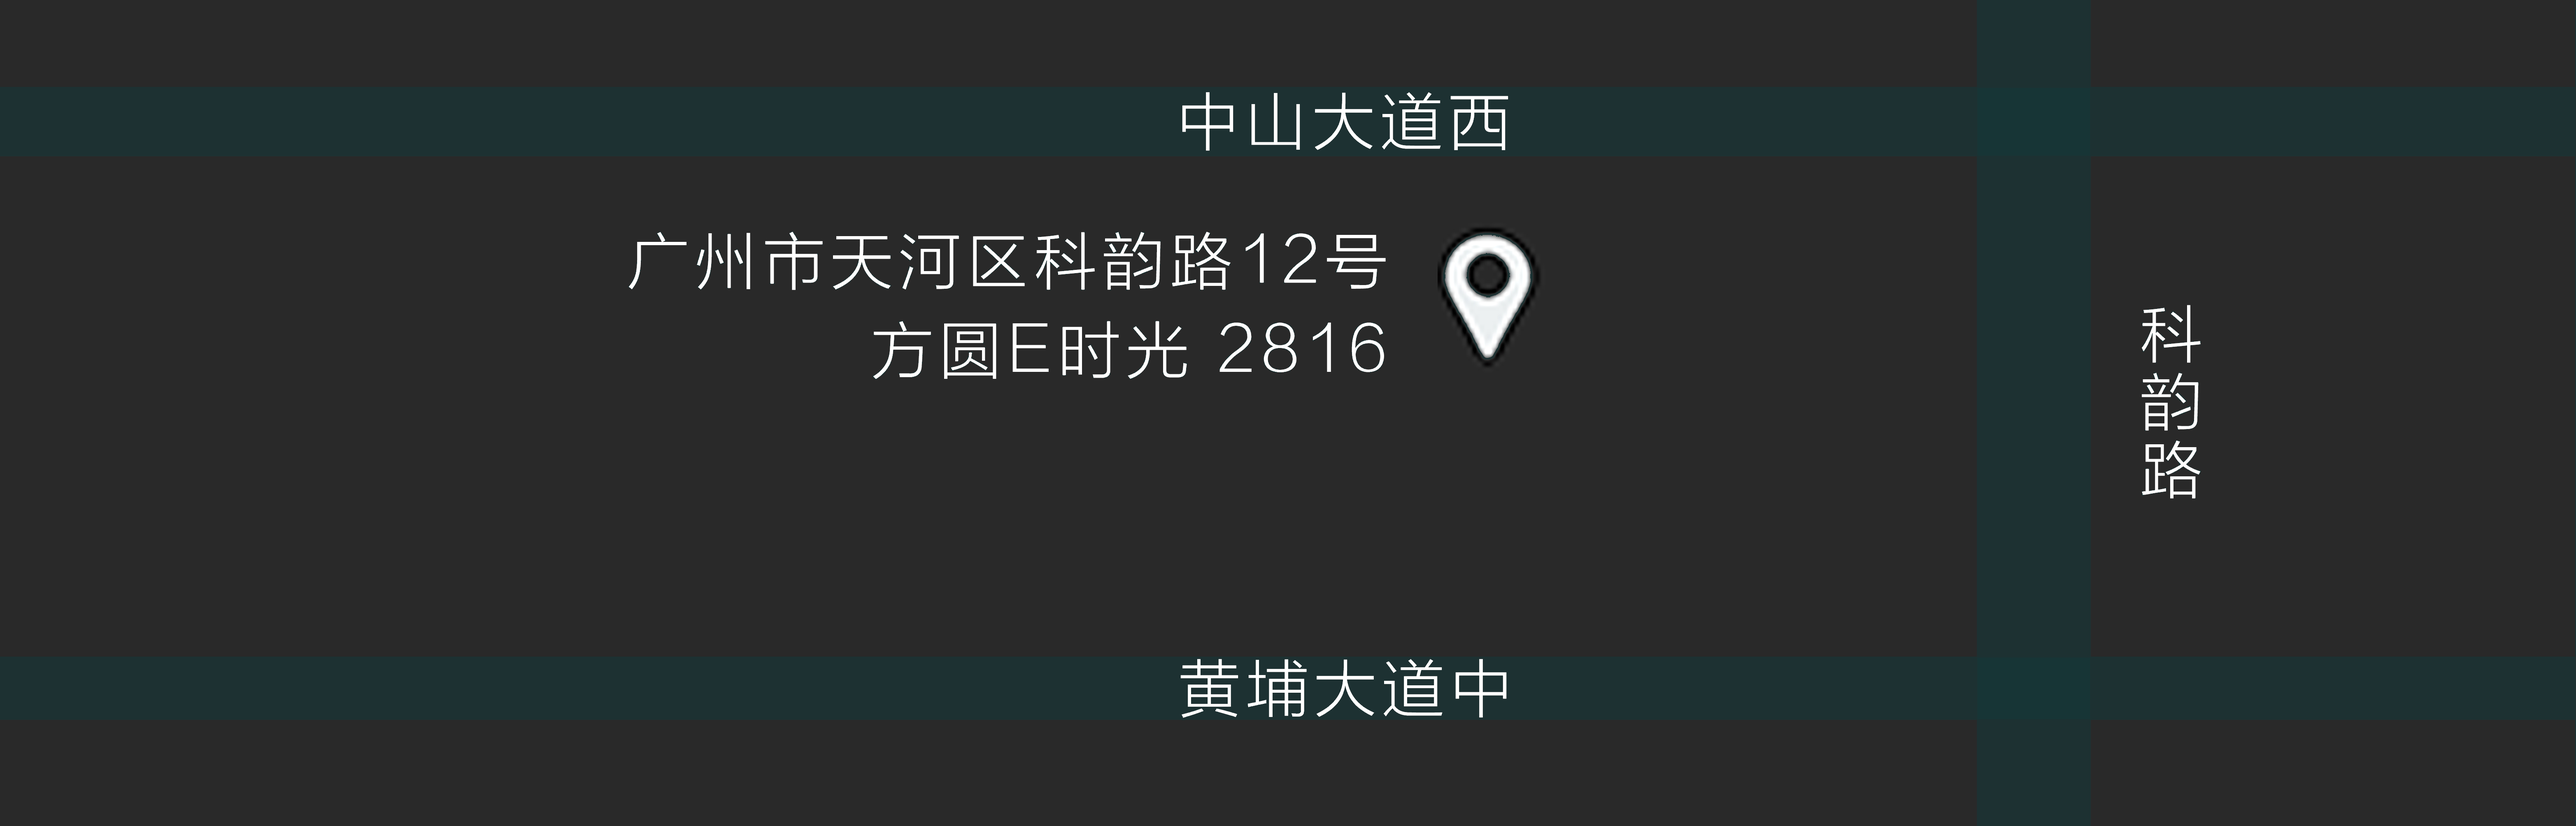
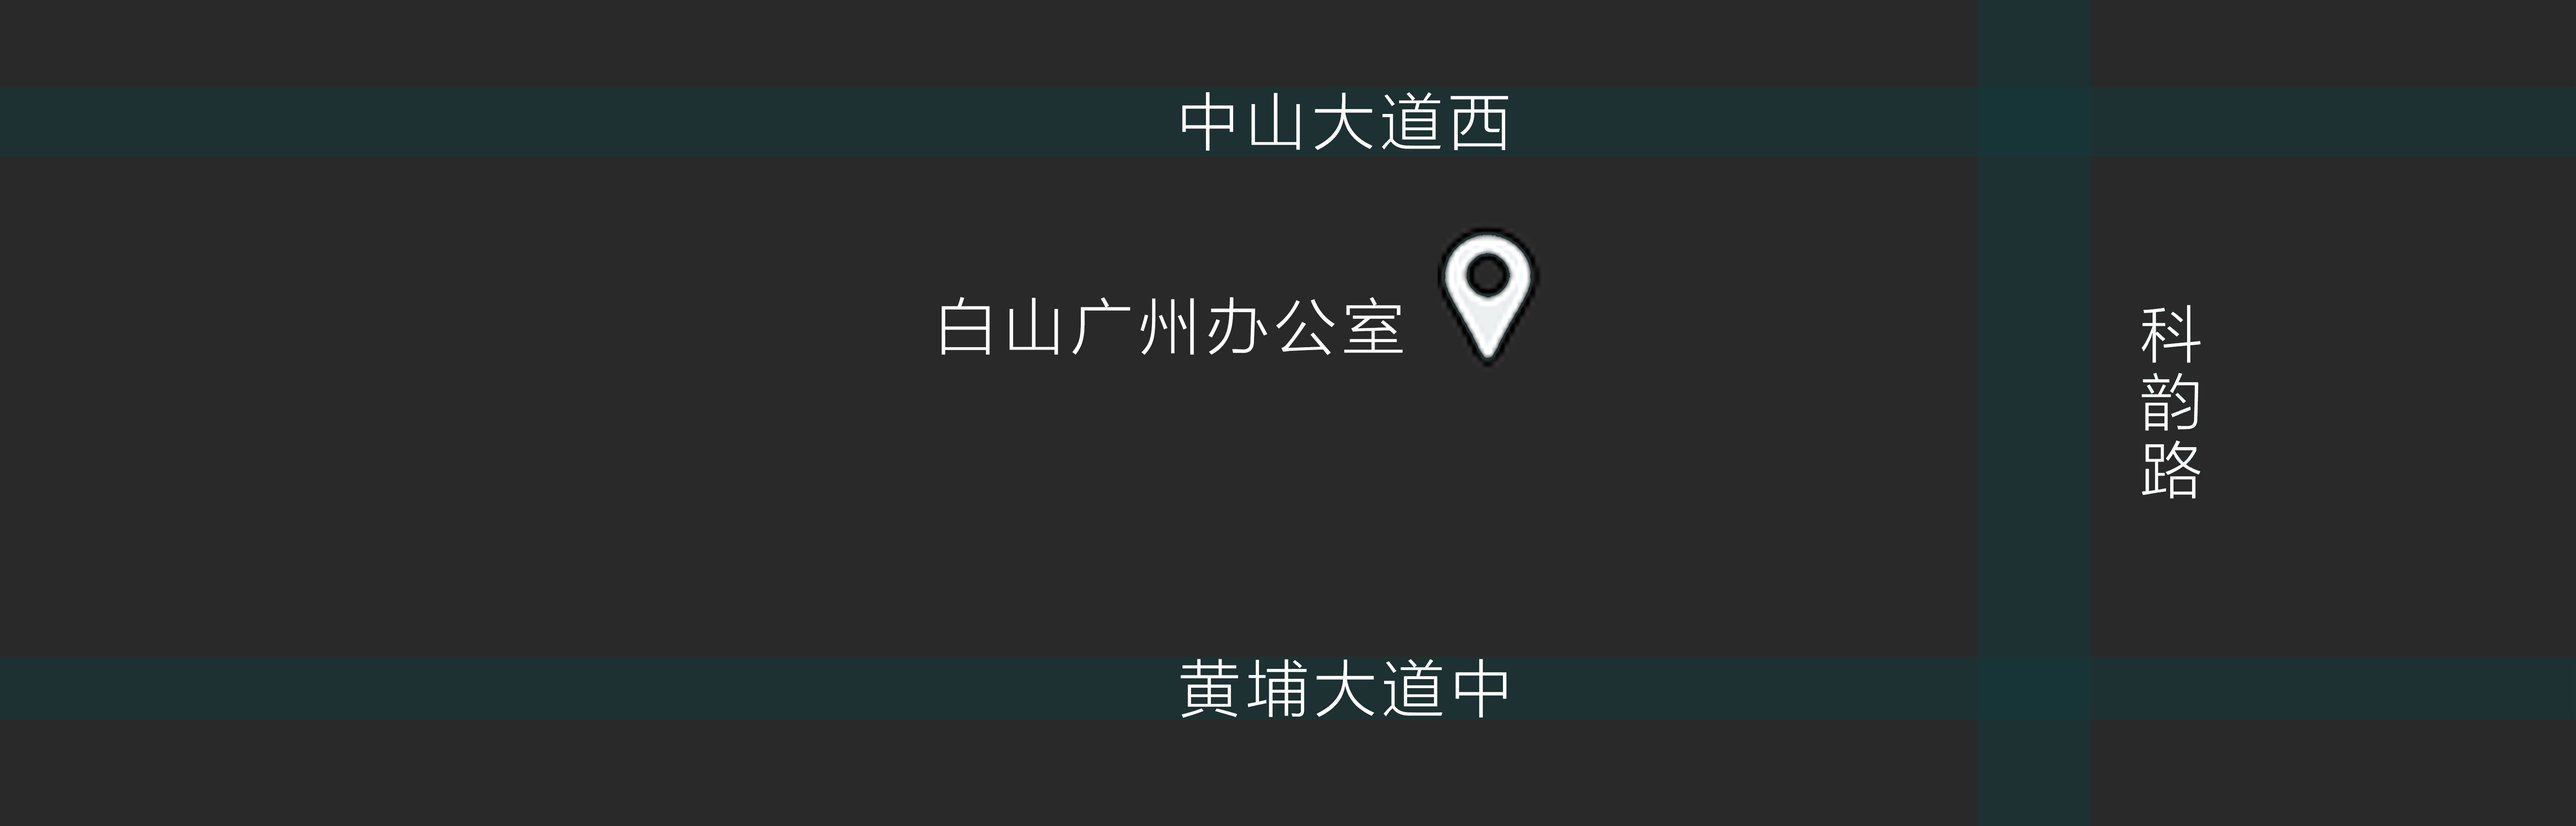
替换广州办公室地图，移动端首页产品链接改为dropdown的动画形式

Changed region(s): [[0.2492, 0.2779, 0.5608, 0.4631]]

diff --git a/index.html b/index.html
@@ -14,62 +14,65 @@ title: 白山云-国内首家云链服务提供商
         <canvas id="demo-canvas"></canvas>
     </div>
     <div class="index-center hidden-xs">
-            <div class="index-center-title">国内首家云链服务提供商</div>
-            <div class="row clearfix index-center-productsbox">
-                <div class="col-xs-4 index-center-imgbox">
-                    <a class="index-center-products-a" href="{{ site.baseurl }}2017/01/01/cdn-x/">
-                        <h3 class="index-center-products-title index-center-products-title-border">云分发</h3>
-                        <img class="index-center-img" src="{{ site.baseurl }}public/image/index/cdn.png" />
-                    </a>
-                </div>
-                <div class="col-xs-4 index-center-imgbox">
-                    <a class="index-center-products-a" href="{{ site.baseurl }}2017/01/02/cwn-x/">
-                        <h3 class="index-center-products-title index-center-products-title-border">云存储</h3>
-                        <img class="index-center-img" src="{{ site.baseurl }}public/image/index/cwn.png" />
-                    </a>
-                </div>
-                <div class="col-xs-4 index-center-imgbox">
-                    <a class="index-center-products-a" href="{{ site.baseurl }}2017/01/03/cln-x/">
-                        <h3 class="index-center-products-title">云聚合</h3>
-                        <img class="index-center-img" src="{{ site.baseurl }}public/image/index/cln.png" />
-                    </a>
-                </div>        
-            </div><!--row-->
-        </div><!--index-header-->
-    <div class="visible-xs">
-        <div class="index-href-box">
-            <div class="index-href">
-                <img class="index-href-img" src="{{ site.baseurl }}public/image/index/service.png" />
-                <span class="href-name">白山服务</span>   
+        <div class="index-center-title">国内首家云链服务提供商</div>
+        <div class="row clearfix index-center-productsbox">
+            <div class="col-xs-4 index-center-imgbox">
+                <a class="index-center-products-a" href="{{ site.baseurl }}2017/01/01/cdn-x/">
+                    <h3 class="index-center-products-title index-center-products-title-border">云分发</h3>
+                    <img class="index-center-img" src="{{ site.baseurl }}public/image/index/cdn.png" />
+                </a>
             </div>
-        </div>
-         <div class="index-prodects row">
+            <div class="col-xs-4 index-center-imgbox">
+                <a class="index-center-products-a" href="{{ site.baseurl }}2017/01/02/cwn-x/">
+                    <h3 class="index-center-products-title index-center-products-title-border">云存储</h3>
+                    <img class="index-center-img" src="{{ site.baseurl }}public/image/index/cwn.png" />
+                </a>
+            </div>
+            <div class="col-xs-4 index-center-imgbox">
+                <a class="index-center-products-a" href="{{ site.baseurl }}2017/01/03/cln-x/">
+                    <h3 class="index-center-products-title">云聚合</h3>
+                    <img class="index-center-img" src="{{ site.baseurl }}public/image/index/cln.png" />
+                </a>
+            </div>
+        </div><!--row-->
+    </div><!--index-header-->
+    <div class="visible-xs">
+        <div class="dropdown">
+            <div class="index-href-box" id="productsDropdownButton">
+                <div class="index-href">
+                    <img class="index-href-img" src="{{ site.baseurl }}public/image/index/service.png" />
+                    <span class="href-name">白山服务</span>
+                </div>
+            </div>
+            <div class="index-prodects row" id="productsDropdown">
                 <div class="col-xs-4 index-xs-products index-xs-products-border">
                     <a class="index-xs-products-a" href="{{ site.baseurl }}2017/01/01/cdn-x/">
                         <h3 class="index-xs-products-title">云分发</h3>
-                        <img class="index-xs-products-img" src="{{ site.baseurl }}public/image/index/cdn.png"/> 
+                        <img class="index-xs-products-img" src="{{ site.baseurl }}public/image/index/cdn.png" />
                     </a>
                 </div>
                 <div class="col-xs-4 index-xs-products index-xs-products-border">
                     <a class="index-xs-products-a" href="{{ site.baseurl }}2017/01/02/cwn-x/">
                         <h3 class="index-xs-products-title">云存储</h3>
-                        <img class="index-xs-products-img" src="{{ site.baseurl }}public/image/index/cwn.png"/> 
+                        <img class="index-xs-products-img" src="{{ site.baseurl }}public/image/index/cwn.png" />
                     </a>
                 </div>
                 <div class="col-xs-4 index-xs-products index-xs-products-border">
                     <a class="index-xs-products-a" href="{{ site.baseurl }}2017/01/03/cln-x/">
                         <h3 class="index-xs-products-title">云聚合</h3>
-                        <img class="index-xs-products-img" src="{{ site.baseurl }}public/image/index/cln.png"/> 
+                        <img class="index-xs-products-img" src="{{ site.baseurl }}public/image/index/cln.png" />
                     </a>
                 </div>
             </div>
+        </div>
+
         {% assign indexHref = site.data.index-href%}
         {% for hr in indexHref%}
         <a href="{{ site.baseurl }}{{hr.href}}">
             <div class="index-href-box">
                 <div class="index-href">
                     <img class="index-href-img" src="{{ site.baseurl }}public/image/index/{{hr.img}}" />
-                    <span class="href-name">{{hr.title}}</span>    
+                    <span class="href-name">{{hr.title}}</span>
                 </div>
             </div>
         </a>

diff --git a/public/js/main.js b/public/js/main.js
@@ -19,6 +19,9 @@ jQuery(document).ready(function() {
     $("#xsNavButton").click(function() {
         $('#xsNav').toggle();
     });
+    $("#productsDropdownButton").click(function() {
+        $('#productsDropdown').toggle();
+    });
 
     function setBlocksItCol() {
         var winWidth = $(window).width();

diff --git a/public/css/main.css b/public/css/main.css
@@ -1353,6 +1353,7 @@ management-position {
 
 .index-prodects {
     background-color: #b0bac3;
+    display: none;
 }
 
 .index-xs-products {
